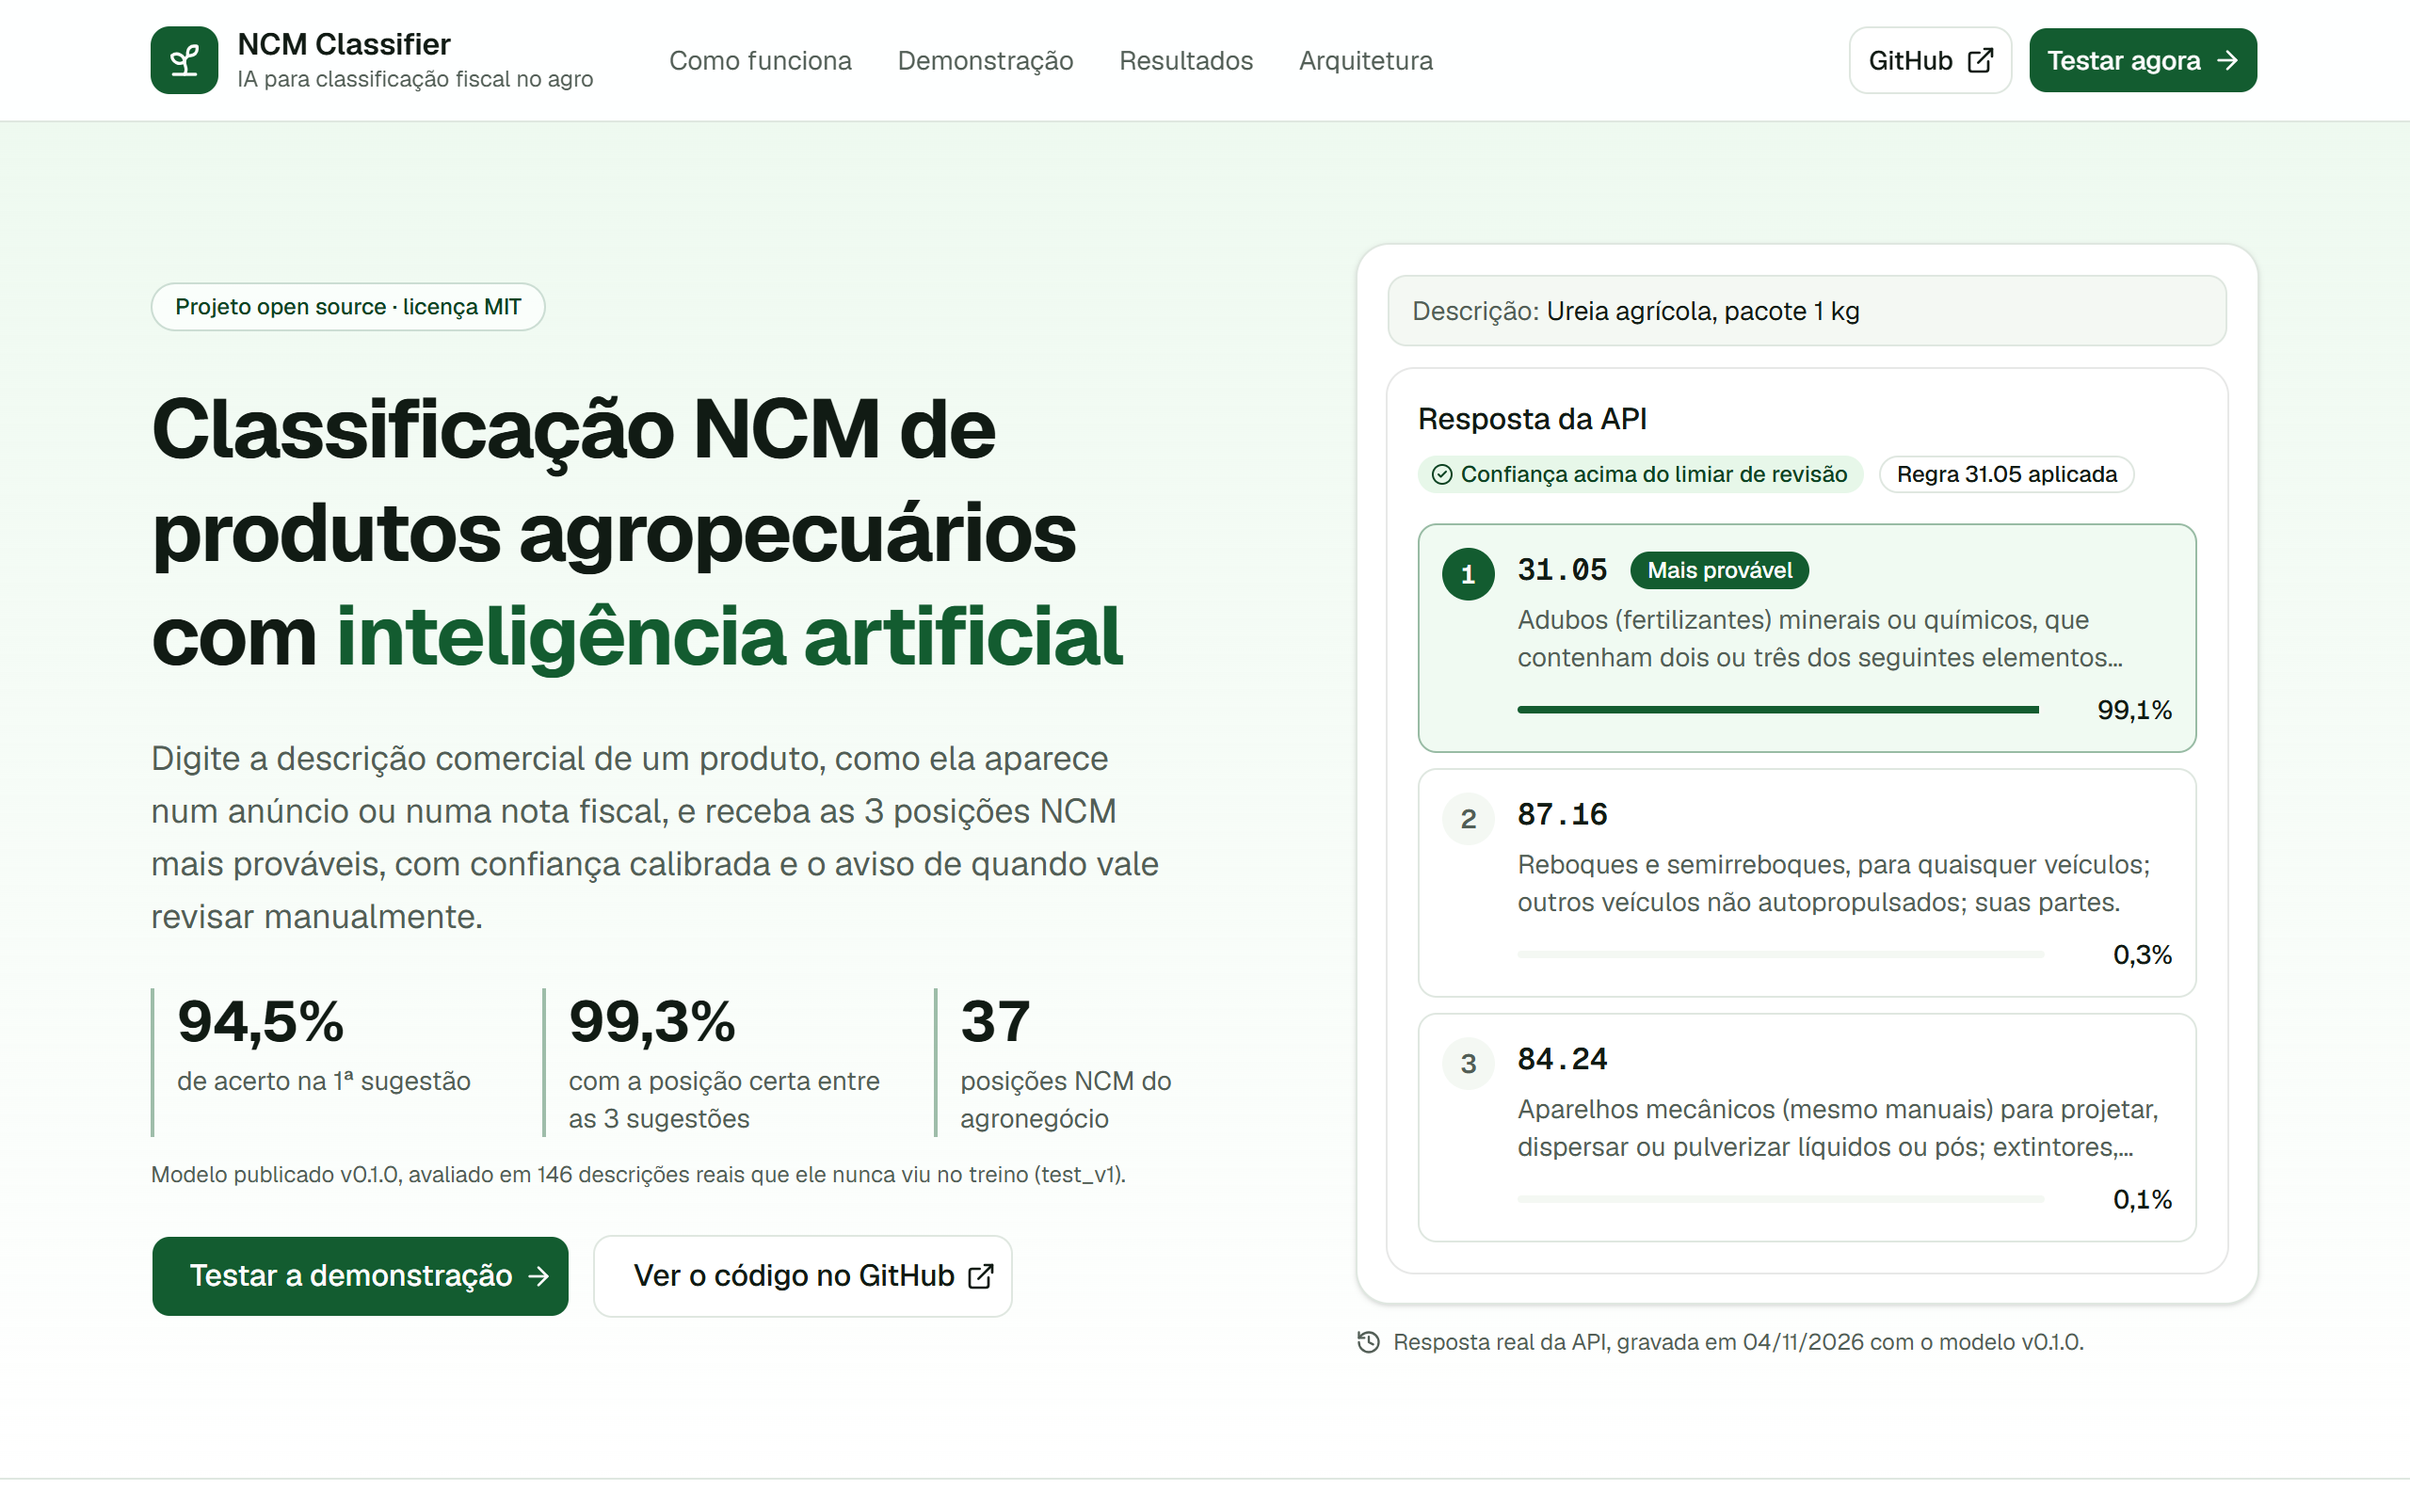
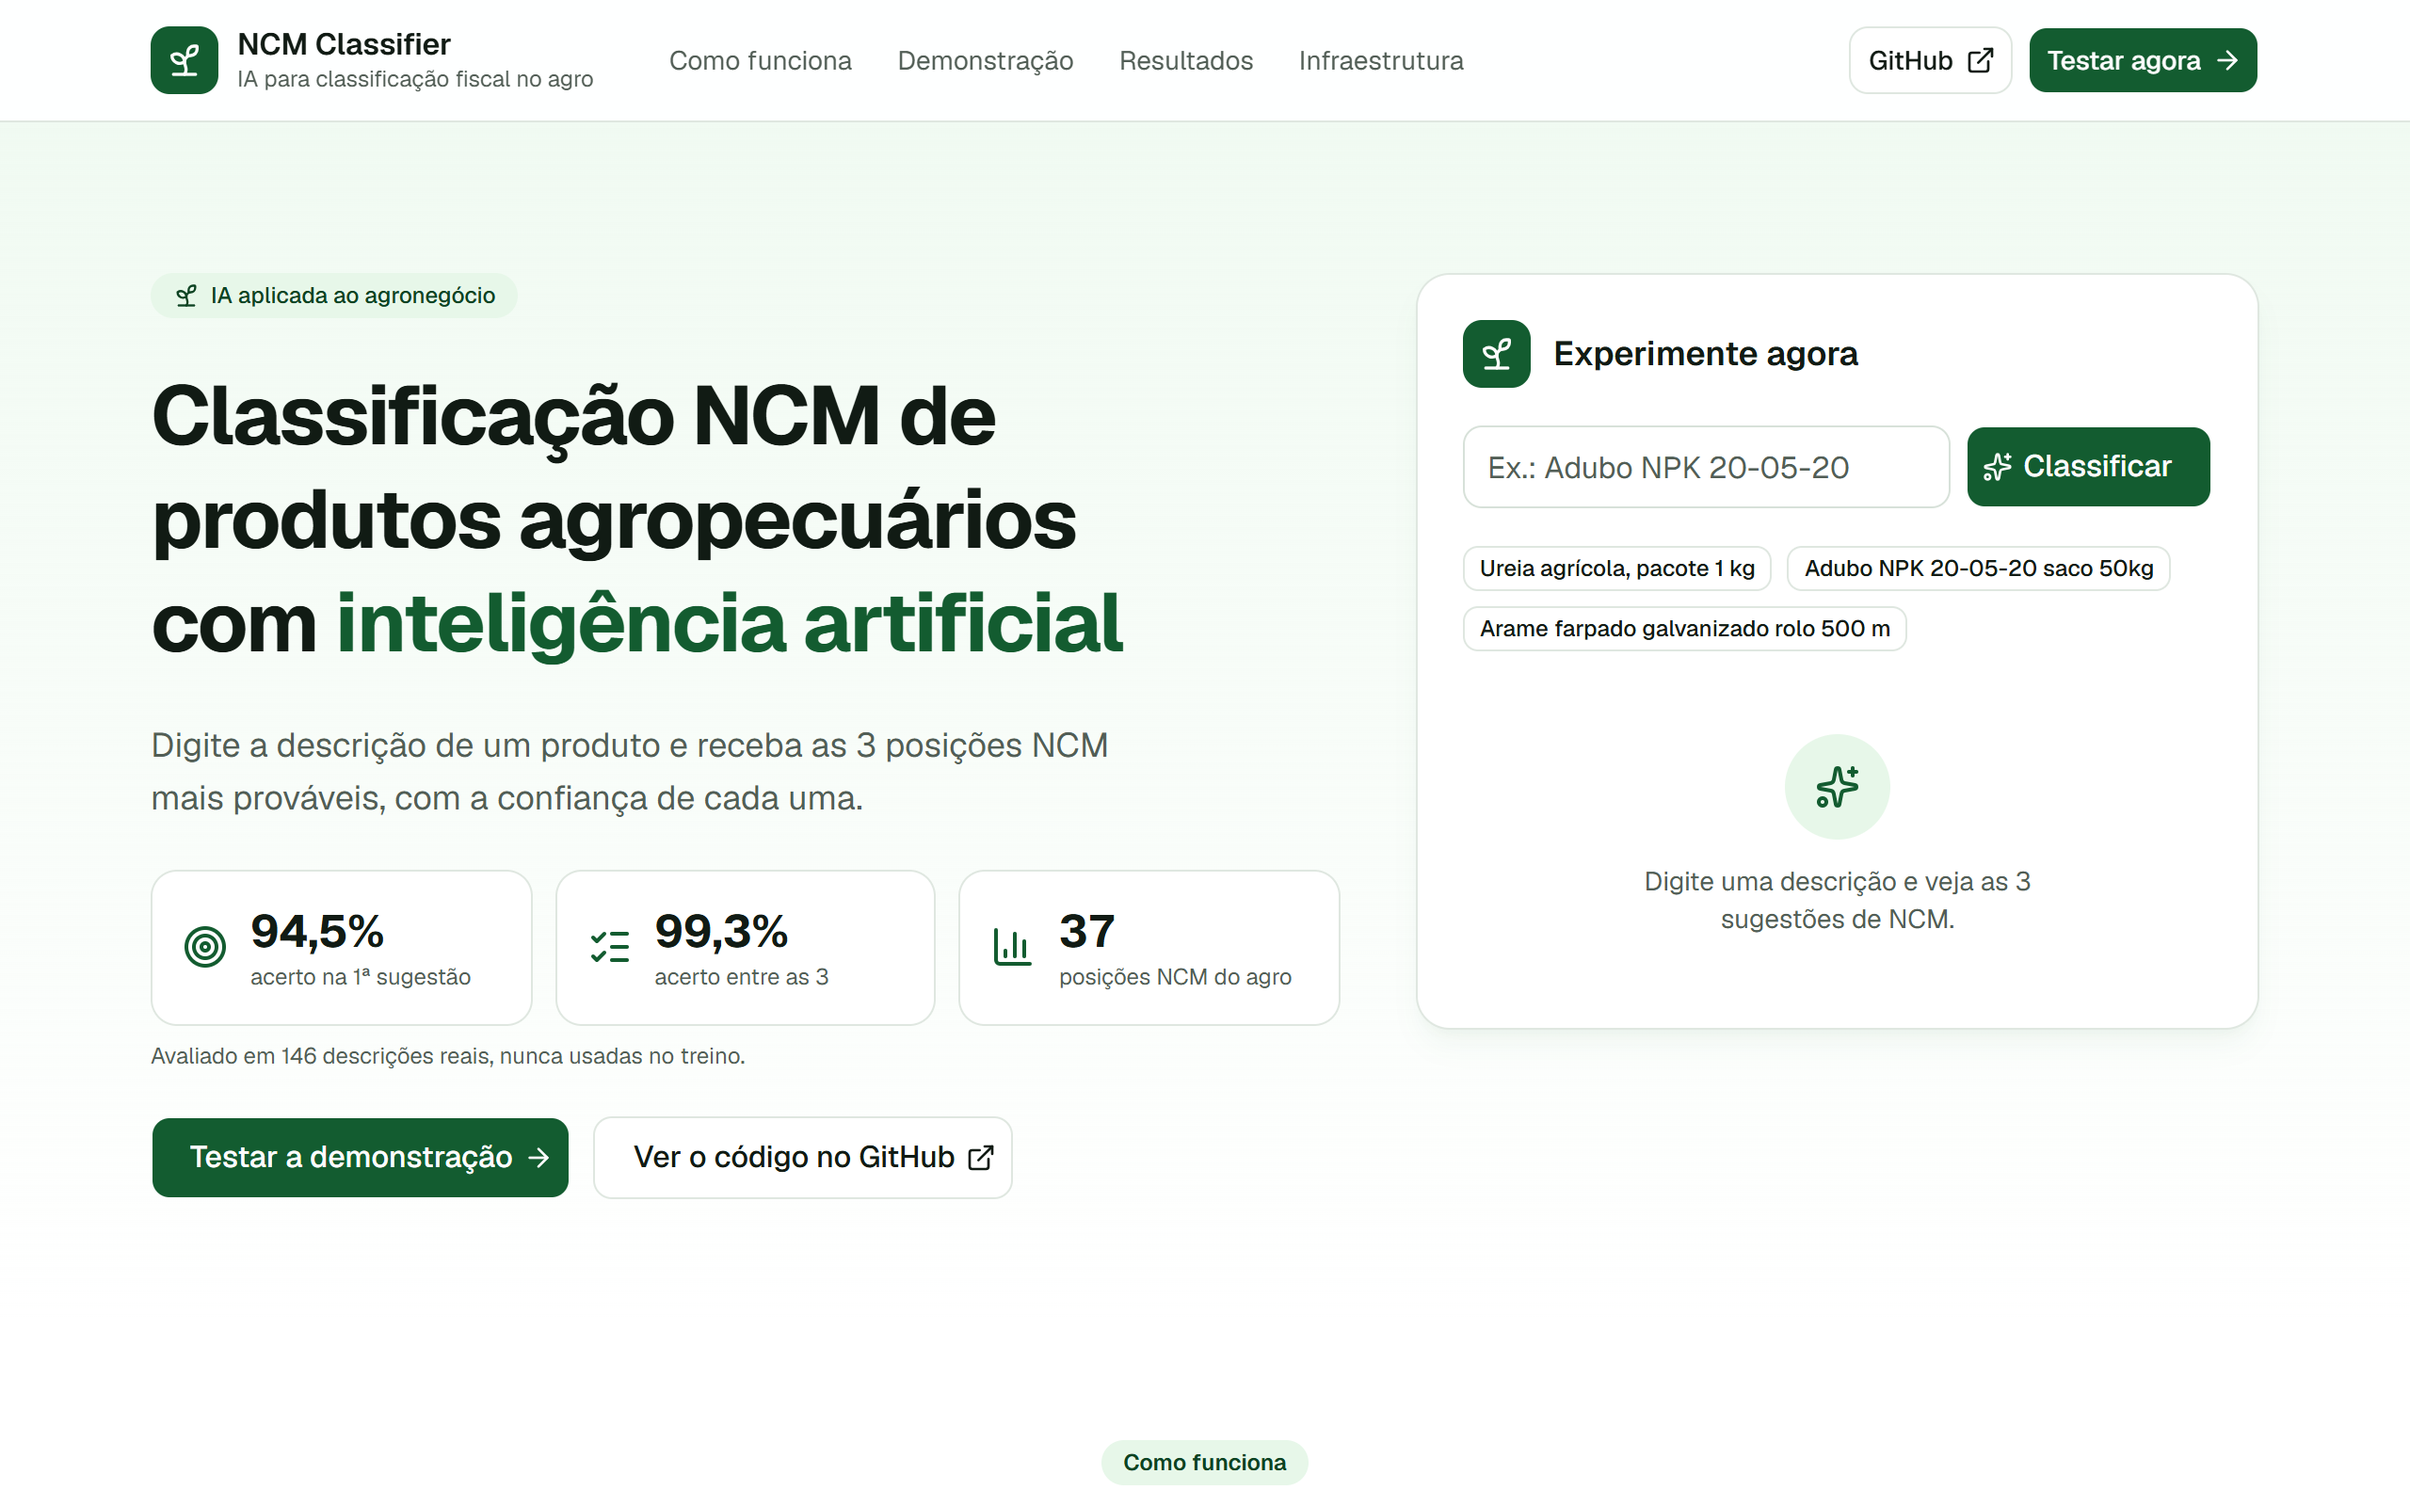
Recapture the presentation media with the live classifier at the top
Screenshots and GIF of the published site calling the real API (model v0.1.0);
the GIF now shows the 'Experimente agora' flow.

Claude-Session: https://claude.ai/code/session_013GaYF5zKGVAoswGbtMBqCN

diff --git a/docs/media/README.md b/docs/media/README.md
@@ -6,10 +6,11 @@ na Render, tiradas em 2026-11-04 com o modelo `v0.1.0`. Nenhum resultado foi edi
 | Arquivo | O que mostra | Tamanho |
 |---|---|---|
 | `home-desktop.png` | primeira tela no computador (1280×800, escala 2×) | 2560×1600 |
+| `home-result-desktop.png` | a mesma tela depois de classificar "Adubo NPK 20-05-20 saco 50kg" em "Experimente agora" | 2560×1600 |
 | `home-mobile.png` | primeira tela no celular (390×844, escala 3×) | 1170×2532 |
-| `demo-desktop.png` | demonstração após classificar "Adubo NPK 20-05-20 saco 50kg" | seção inteira, 2× |
-| `demo-mobile.png` | resultado da mesma classificação no celular | 1170×2532 |
-| `demo.gif` | fluxo completo: topo, digitação, classificação e resultado | 960 px de largura |
+| `result-mobile.png` | resultado da mesma classificação no celular | 1170×2532 |
+| `demo-desktop.png` | seção de demonstração completa, com o resultado | seção inteira, 2× |
+| `demo.gif` | fluxo: primeira tela, digitação em "Experimente agora" e resultado | 960 px de largura |
 
 A imagem que aparece quando o link é compartilhado não está aqui: ela é gerada no build do site
 e servida em https://amanda-gondra.github.io/ncm-classifier/og-image.png.
